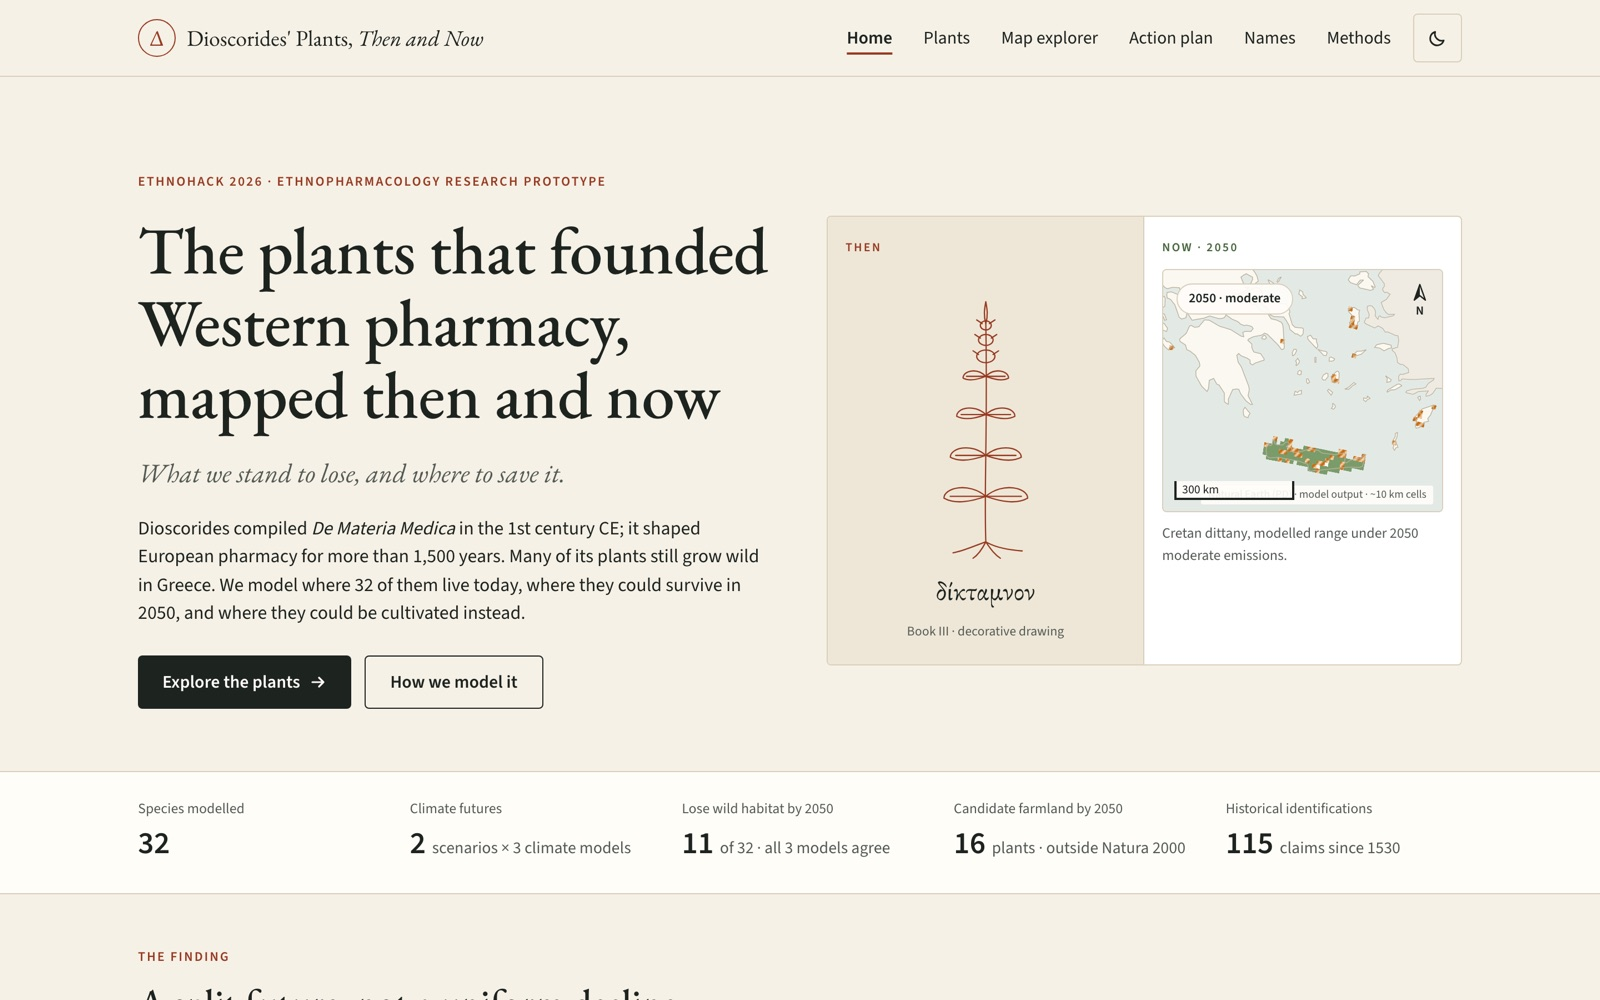
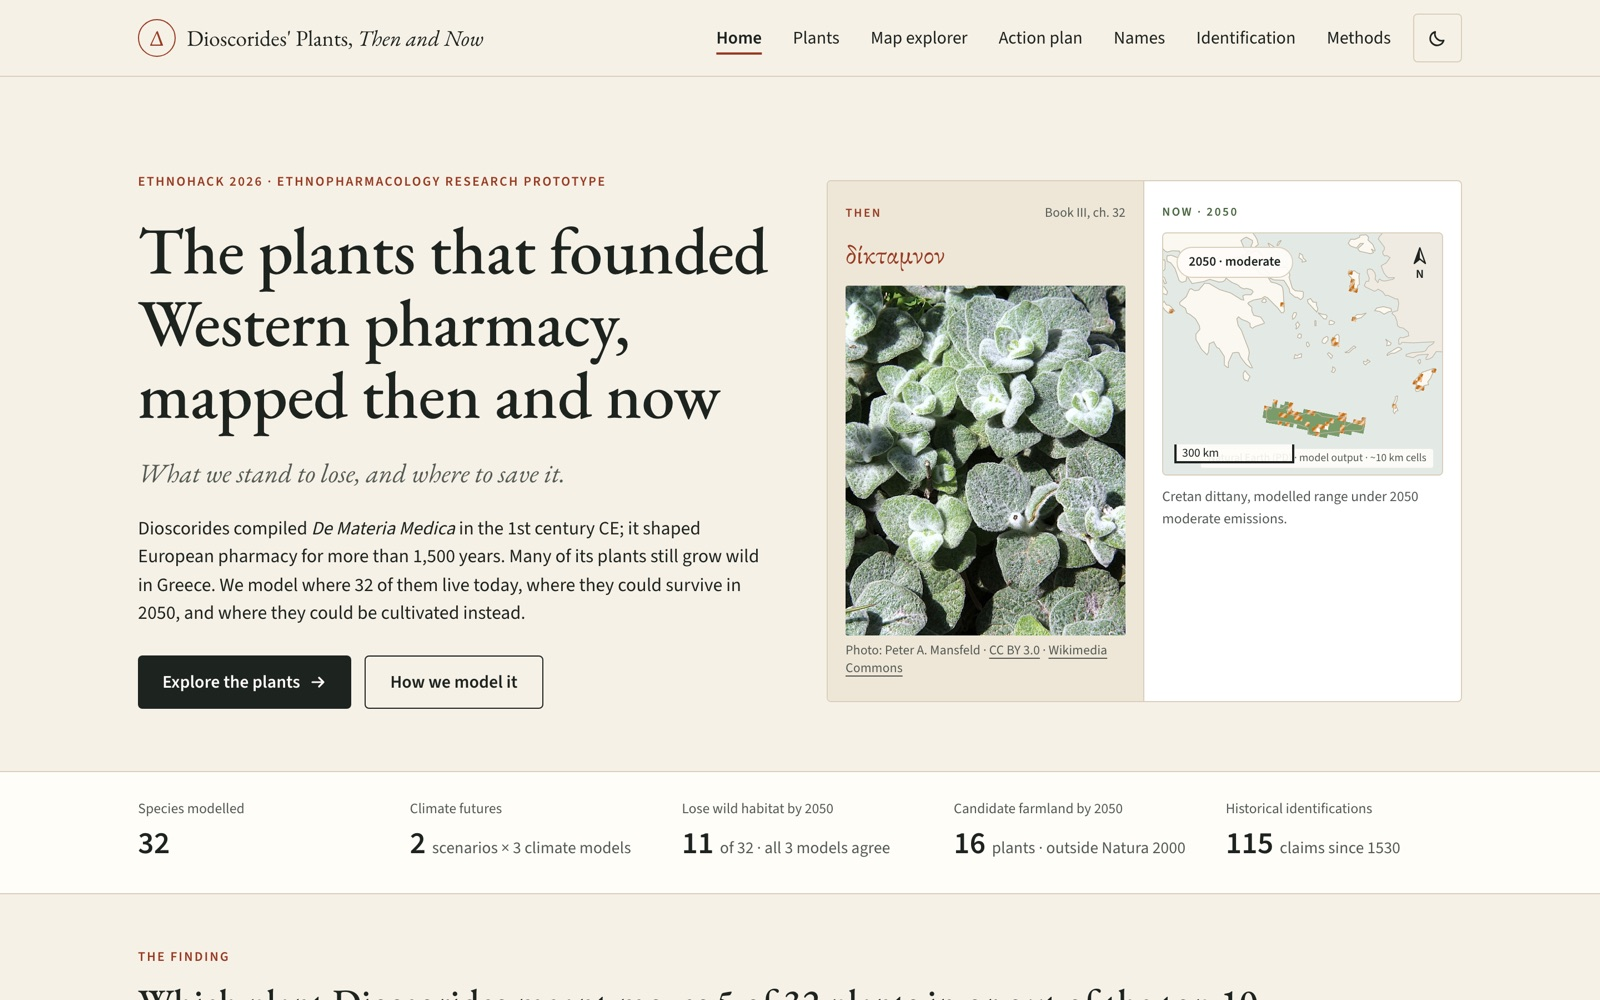
README: gallery of all 32 plants with real photos and credits; refresh screenshots with the new photos

diff --git a/README.md b/README.md
@@ -36,6 +36,59 @@ We model where 32 medicinal plants from Dioscorides' *De Materia Medica* (1st ce
 </tr>
 </table>
 
+## The 32 plants
+
+The plants Dioscorides described that still grow wild in Greece, in order of 2050 risk. Click any photo to open its page on the live site.
+
+<table>
+<tr><td align="center" width="25%"><a href="https://materia-medica-2050.vercel.app/plants/origanum-dictamnus/"><img src="docs/images/plants/origanum-dictamnus.jpg" width="180" alt="Photograph of Origanum dictamnus"></a><br><b>1. Cretan dittany</b><br><sub><i>Origanum dictamnus</i> · δίκταμνον</sub></td><td align="center" width="25%"><a href="https://materia-medica-2050.vercel.app/plants/hyssopus-officinalis/"><img src="docs/images/plants/hyssopus-officinalis.jpg" width="180" alt="Photograph of Hyssopus officinalis"></a><br><b>2. Hyssop</b><br><sub><i>Hyssopus officinalis</i> · ὕσσωπος · disputed ID</sub></td><td align="center" width="25%"><a href="https://materia-medica-2050.vercel.app/plants/althaea-officinalis/"><img src="docs/images/plants/althaea-officinalis.jpg" width="180" alt="Photograph of Althaea officinalis"></a><br><b>3. Marsh mallow</b><br><sub><i>Althaea officinalis</i> · ἀλθαία · probable ID</sub></td><td align="center" width="25%"><a href="https://materia-medica-2050.vercel.app/plants/sideritis-syriaca/"><img src="docs/images/plants/sideritis-syriaca.jpg" width="180" alt="Photograph of Sideritis syriaca"></a><br><b>4. Cretan mountain tea</b><br><sub><i>Sideritis syriaca</i> · σιδηρῖτις · disputed ID</sub></td></tr>
+<tr><td align="center" width="25%"><a href="https://materia-medica-2050.vercel.app/plants/paeonia-greece/"><img src="docs/images/plants/paeonia-greece.jpg" width="180" alt="Photograph of Paeonia mascula"></a><br><b>5. Wild peonies of Greece</b><br><sub><i>Paeonia spp.</i> · γλυκυσίδη · disputed ID</sub></td><td align="center" width="25%"><a href="https://materia-medica-2050.vercel.app/plants/glycyrrhiza-glabra/"><img src="docs/images/plants/glycyrrhiza-glabra.jpg" width="180" alt="Photograph of Glycyrrhiza glabra"></a><br><b>6. Liquorice</b><br><sub><i>Glycyrrhiza glabra</i> · γλυκύρριζα · probable ID</sub></td><td align="center" width="25%"><a href="https://materia-medica-2050.vercel.app/plants/sambucus-nigra/"><img src="docs/images/plants/sambucus-nigra.jpg" width="180" alt="Photograph of Sambucus nigra"></a><br><b>7. Elder</b><br><sub><i>Sambucus nigra</i> · ἀκτῆ · probable ID</sub></td><td align="center" width="25%"><a href="https://materia-medica-2050.vercel.app/plants/juniperus-deltoides/"><img src="docs/images/plants/juniperus-deltoides.jpg" width="180" alt="Photograph of Juniperus deltoides"></a><br><b>8. Prickly juniper (eastern)</b><br><sub><i>Juniperus deltoides</i> · ἄρκευθος · disputed ID</sub></td></tr>
+<tr><td align="center" width="25%"><a href="https://materia-medica-2050.vercel.app/plants/origanum-vulgare/"><img src="docs/images/plants/origanum-vulgare.jpg" width="180" alt="Photograph of Origanum vulgare"></a><br><b>9. Greek oregano</b><br><sub><i>Origanum vulgare</i> · ὀρίγανος Ἡρακλεωτική · probable ID</sub></td><td align="center" width="25%"><a href="https://materia-medica-2050.vercel.app/plants/hypericum-perforatum/"><img src="docs/images/plants/hypericum-perforatum.jpg" width="180" alt="Photograph of Hypericum perforatum"></a><br><b>10. St John's wort</b><br><sub><i>Hypericum perforatum</i> · ὑπερικόν · disputed ID</sub></td><td align="center" width="25%"><a href="https://materia-medica-2050.vercel.app/plants/urtica-dioica/"><img src="docs/images/plants/urtica-dioica.jpg" width="180" alt="Photograph of Urtica dioica"></a><br><b>11. Stinging nettle</b><br><sub><i>Urtica dioica</i> · ἀκαλήφη · probable ID</sub></td><td align="center" width="25%"><a href="https://materia-medica-2050.vercel.app/plants/plantago-lanceolata/"><img src="docs/images/plants/plantago-lanceolata.jpg" width="180" alt="Photograph of Plantago lanceolata"></a><br><b>12. Ribwort plantain</b><br><sub><i>Plantago lanceolata</i> · ἀρνόγλωσσον · disputed ID</sub></td></tr>
+<tr><td align="center" width="25%"><a href="https://materia-medica-2050.vercel.app/plants/teucrium-chamaedrys/"><img src="docs/images/plants/teucrium-chamaedrys.jpg" width="180" alt="Photograph of Teucrium chamaedrys"></a><br><b>13. Wall germander</b><br><sub><i>Teucrium chamaedrys</i> · χαμαίδρυς · disputed ID</sub></td><td align="center" width="25%"><a href="https://materia-medica-2050.vercel.app/plants/melissa-officinalis/"><img src="docs/images/plants/melissa-officinalis.jpg" width="180" alt="Photograph of Melissa officinalis"></a><br><b>14. Lemon balm</b><br><sub><i>Melissa officinalis</i> · μελισσόφυλλον · probable ID</sub></td><td align="center" width="25%"><a href="https://materia-medica-2050.vercel.app/plants/teucrium-capitatum/"><img src="docs/images/plants/teucrium-capitatum.jpg" width="180" alt="Photograph of Teucrium capitatum"></a><br><b>15. Felty germander</b><br><sub><i>Teucrium capitatum</i> · πόλιον</sub></td><td align="center" width="25%"><a href="https://materia-medica-2050.vercel.app/plants/matricaria-chamomilla/"><img src="docs/images/plants/matricaria-chamomilla.jpg" width="180" alt="Photograph of Matricaria chamomilla"></a><br><b>16. German chamomile</b><br><sub><i>Matricaria chamomilla</i> · ἀνθεμίς · disputed ID</sub></td></tr>
+<tr><td align="center" width="25%"><a href="https://materia-medica-2050.vercel.app/plants/marrubium-vulgare/"><img src="docs/images/plants/marrubium-vulgare.jpg" width="180" alt="Photograph of Marrubium vulgare"></a><br><b>17. White horehound</b><br><sub><i>Marrubium vulgare</i> · πράσιον · probable ID</sub></td><td align="center" width="25%"><a href="https://materia-medica-2050.vercel.app/plants/artemisia-absinthium/"><img src="docs/images/plants/artemisia-absinthium.jpg" width="180" alt="Photograph of Artemisia absinthium"></a><br><b>18. Wormwood</b><br><sub><i>Artemisia absinthium</i> · ἀψίνθιον · probable ID</sub></td><td align="center" width="25%"><a href="https://materia-medica-2050.vercel.app/plants/malva-sylvestris/"><img src="docs/images/plants/malva-sylvestris.jpg" width="180" alt="Photograph of Malva sylvestris"></a><br><b>19. Common mallow</b><br><sub><i>Malva sylvestris</i> · μολόχη · probable ID</sub></td><td align="center" width="25%"><a href="https://materia-medica-2050.vercel.app/plants/salvia-rosmarinus/"><img src="docs/images/plants/salvia-rosmarinus.jpg" width="180" alt="Photograph of Salvia rosmarinus"></a><br><b>20. Rosemary</b><br><sub><i>Salvia rosmarinus</i> · λιβανωτίς · probable ID</sub></td></tr>
+<tr><td align="center" width="25%"><a href="https://materia-medica-2050.vercel.app/plants/foeniculum-vulgare/"><img src="docs/images/plants/foeniculum-vulgare.jpg" width="180" alt="Photograph of Foeniculum vulgare"></a><br><b>21. Fennel</b><br><sub><i>Foeniculum vulgare</i> · μάραθον</sub></td><td align="center" width="25%"><a href="https://materia-medica-2050.vercel.app/plants/salvia-fruticosa/"><img src="docs/images/plants/salvia-fruticosa.jpg" width="180" alt="Photograph of Salvia fruticosa"></a><br><b>22. Greek sage</b><br><sub><i>Salvia fruticosa</i> · ἐλελίσφακον · disputed ID</sub></td><td align="center" width="25%"><a href="https://materia-medica-2050.vercel.app/plants/lavandula-stoechas/"><img src="docs/images/plants/lavandula-stoechas.jpg" width="180" alt="Photograph of Lavandula stoechas"></a><br><b>23. French / topped lavender</b><br><sub><i>Lavandula stoechas</i> · στοιχάς</sub></td><td align="center" width="25%"><a href="https://materia-medica-2050.vercel.app/plants/thymbra-capitata/"><img src="docs/images/plants/thymbra-capitata.jpg" width="180" alt="Photograph of Thymbra capitata"></a><br><b>24. Conehead thyme</b><br><sub><i>Thymbra capitata</i> · θύμος · probable ID</sub></td></tr>
+<tr><td align="center" width="25%"><a href="https://materia-medica-2050.vercel.app/plants/ecballium-elaterium/"><img src="docs/images/plants/ecballium-elaterium.jpg" width="180" alt="Photograph of Ecballium elaterium"></a><br><b>25. Squirting cucumber</b><br><sub><i>Ecballium elaterium</i> · σίκυς ἄγριος</sub></td><td align="center" width="25%"><a href="https://materia-medica-2050.vercel.app/plants/glaucium-flavum/"><img src="docs/images/plants/glaucium-flavum.jpg" width="180" alt="Photograph of Glaucium flavum"></a><br><b>26. Yellow horned poppy</b><br><sub><i>Glaucium flavum</i> · μήκων κερατῖτις</sub></td><td align="center" width="25%"><a href="https://materia-medica-2050.vercel.app/plants/centaurium-erythraea/"><img src="docs/images/plants/centaurium-erythraea.jpg" width="180" alt="Photograph of Centaurium erythraea"></a><br><b>27. Common centaury</b><br><sub><i>Centaurium erythraea</i> · κενταύρειον τὸ λεπτὸν ἢ μικρόν</sub></td><td align="center" width="25%"><a href="https://materia-medica-2050.vercel.app/plants/mentha-pulegium/"><img src="docs/images/plants/mentha-pulegium.jpg" width="180" alt="Photograph of Mentha pulegium"></a><br><b>28. Pennyroyal</b><br><sub><i>Mentha pulegium</i> · γλήχων</sub></td></tr>
+<tr><td align="center" width="25%"><a href="https://materia-medica-2050.vercel.app/plants/cyclamen-graecum/"><img src="docs/images/plants/cyclamen-graecum.jpg" width="180" alt="Photograph of Cyclamen graecum"></a><br><b>29. Greek cyclamen</b><br><sub><i>Cyclamen graecum</i> · κυκλάμινος · probable ID</sub></td><td align="center" width="25%"><a href="https://materia-medica-2050.vercel.app/plants/pistacia-lentiscus/"><img src="docs/images/plants/pistacia-lentiscus.jpg" width="180" alt="Photograph of Pistacia lentiscus"></a><br><b>30. Mastic tree, lentisk</b><br><sub><i>Pistacia lentiscus</i> · σχῖνος · probable ID</sub></td><td align="center" width="25%"><a href="https://materia-medica-2050.vercel.app/plants/capparis-spinosa/"><img src="docs/images/plants/capparis-spinosa.jpg" width="180" alt="Photograph of Capparis spinosa"></a><br><b>31. Caper</b><br><sub><i>Capparis spinosa</i> · κάππαρις</sub></td><td align="center" width="25%"><a href="https://materia-medica-2050.vercel.app/plants/mandragora-officinarum/"><img src="docs/images/plants/mandragora-officinarum.jpg" width="180" alt="Photograph of Mandragora officinarum"></a><br><b>32. Mandrake</b><br><sub><i>Mandragora officinarum</i> · μανδραγόρας</sub></td></tr>
+</table>
+
+<details><summary>Photo credits (Wikimedia Commons)</summary>
+
+- **Cretan dittany**: *Origanum dictamnus*. Photo: Peter A. Mansfeld, [CC BY 3.0](https://creativecommons.org/licenses/by/3.0), [source](https://commons.wikimedia.org/wiki/File:Origanum_dictamnus_pmPfl.jpg)
+- **Hyssop**: *Hyssopus officinalis*. Photo: Robert Flogaus-Faust, [CC BY 4.0](https://creativecommons.org/licenses/by/4.0), [source](https://commons.wikimedia.org/wiki/File:Hyssopus_officinalis_2_RF.jpg)
+- **Marsh mallow**: *Althaea officinalis*. Photo: Krzysztof Golik, [CC BY-SA 4.0](https://creativecommons.org/licenses/by-sa/4.0), [source](https://commons.wikimedia.org/wiki/File:Althaea_officinalis_in_Jardin_des_5_sens_(1).jpg)
+- **Cretan mountain tea**: *Sideritis syriaca*. Photo: Krzysztof Ziarnek, Kenraiz, [CC BY-SA 4.0](https://creativecommons.org/licenses/by-sa/4.0), [source](https://commons.wikimedia.org/wiki/File:Sideritis_syriaca_kz01.jpg)
+- **Wild peonies of Greece**: *Paeonia mascula* (one of the species pooled for this plant). Photo: Erdem Cırık, [CC BY-SA 4.0](https://creativecommons.org/licenses/by-sa/4.0), [source](https://commons.wikimedia.org/wiki/File:Paeonia_Mascula_(Ay%C4%B1_G%C3%BCl%C3%BC).jpg)
+- **Liquorice**: *Glycyrrhiza glabra*. Photo: N. Teerink, [CC BY-SA 4.0](https://creativecommons.org/licenses/by-sa/4.0), [source](https://commons.wikimedia.org/wiki/File:Glycyrrhiza_glabra_(Zoethout).jpg)
+- **Elder**: *Sambucus nigra*. Photo: Willow, [CC BY 2.5](https://creativecommons.org/licenses/by/2.5), [source](https://commons.wikimedia.org/wiki/File:Sambucus_nigra_004.jpg)
+- **Prickly juniper (eastern)**: *Juniperus deltoides* (one of the species pooled for this plant). Photo: Holger Krisp, [CC BY 3.0](https://creativecommons.org/licenses/by/3.0), [source](https://commons.wikimedia.org/wiki/File:Stech-Wacholder_Juniperus_deltoides.jpg)
+- **Greek oregano**: *Origanum vulgare*. Photo: Ivar Leidus, [CC BY-SA 3.0](https://creativecommons.org/licenses/by-sa/3.0), [source](https://commons.wikimedia.org/wiki/File:Origanum_vulgare_-_harilik_pune.jpg)
+- **St John's wort**: *Hypericum perforatum*. Photo: Didier Descouens, [CC BY-SA 4.0](https://creativecommons.org/licenses/by-sa/4.0), [source](https://commons.wikimedia.org/wiki/File:(MHNT)_Hypericum_perforatum_flower_and_buttons.jpg)
+- **Stinging nettle**: *Urtica dioica*. Photo: Evelyn Simak, [CC BY-SA 2.0](https://creativecommons.org/licenses/by-sa/2.0), [source](https://commons.wikimedia.org/wiki/File:Fen_nettle_(Urtica_dioica_ssp._galeopsifolia)_-_geograph.org.uk_-_5423125.jpg)
+- **Ribwort plantain**: *Plantago lanceolata*. Photo: sannse, [CC BY-SA 3.0](http://creativecommons.org/licenses/by-sa/3.0/), [source](https://commons.wikimedia.org/wiki/File:Ribwort_600.jpg)
+- **Wall germander**: *Teucrium chamaedrys*. Photo: Konrad Lackerbeck, [CC0](http://creativecommons.org/publicdomain/zero/1.0/deed.en), [source](https://commons.wikimedia.org/wiki/File:Gamander_Passau.JPG)
+- **Lemon balm**: *Melissa officinalis*. Photo: Amitchell125, [CC BY-SA 4.0](https://creativecommons.org/licenses/by-sa/4.0), [source](https://commons.wikimedia.org/wiki/File:Lemon_balm_plant.jpg)
+- **Felty germander**: *Teucrium capitatum* (one of the species pooled for this plant). Photo: Krzysztof Ziarnek, Kenraiz, [CC BY-SA 4.0](https://creativecommons.org/licenses/by-sa/4.0), [source](https://commons.wikimedia.org/wiki/File:Teucrium_capitatum_subsp._majoricum_kz01.jpg)
+- **German chamomile**: *Matricaria chamomilla*. Photo: Alvesgaspar, [CC BY-SA 3.0](https://creativecommons.org/licenses/by-sa/3.0), [source](https://commons.wikimedia.org/wiki/File:Matricaria_February_2008-1.jpg)
+- **White horehound**: *Marrubium vulgare*. Photo: Juan Carlos Fonseca Mata, [CC BY-SA 4.0](https://creativecommons.org/licenses/by-sa/4.0), [source](https://commons.wikimedia.org/wiki/File:Marrubium_vulgare_in_Mexico_I.jpg)
+- **Wormwood**: *Artemisia absinthium*. Photo: David Monniaux, [CC BY-SA 3.0](http://creativecommons.org/licenses/by-sa/3.0/), [source](https://commons.wikimedia.org/wiki/File:Artemisia_absinthium_P1210748.jpg)
+- **Common mallow**: *Malva sylvestris*. Photo: Alvesgaspar, [CC BY-SA 3.0](https://creativecommons.org/licenses/by-sa/3.0), [source](https://commons.wikimedia.org/wiki/File:Mallow_January_2008-1.jpg)
+- **Rosemary**: *Salvia rosmarinus*. Photo: Margalob, [CC BY-SA 4.0](https://creativecommons.org/licenses/by-sa/4.0), [source](https://commons.wikimedia.org/wiki/File:Rosemary_in_bloom.JPG)
+- **Fennel**: *Foeniculum vulgare*. Photo: Alvesgaspar, [CC BY-SA 3.0](https://creativecommons.org/licenses/by-sa/3.0), [source](https://commons.wikimedia.org/wiki/File:Foeniculum_July_2011-1a.jpg)
+- **Greek sage**: *Salvia fruticosa*. Photo: Robert Flogaus-Faust, [CC BY 4.0](https://creativecommons.org/licenses/by/4.0), [source](https://commons.wikimedia.org/wiki/File:Salvia_fruticosa_2_RF.jpg)
+- **French / topped lavender**: *Lavandula stoechas*. Photo: Forest & Kim Starr, [CC BY 3.0](https://creativecommons.org/licenses/by/3.0), [source](https://commons.wikimedia.org/wiki/File:Starr_080103-1282_Lavandula_stoechas.jpg)
+- **Conehead thyme**: *Thymbra capitata*. Photo: Lapplaender, [CC BY-SA 3.0 de](https://creativecommons.org/licenses/by-sa/3.0/de/deed.en), [source](https://commons.wikimedia.org/wiki/File:Thymus_capitatus_in_Crete.jpg)
+- **Squirting cucumber**: *Ecballium elaterium*. Photo: Katja Schulz from Washington, D. C., USA, [CC BY 2.0](https://creativecommons.org/licenses/by/2.0), [source](https://commons.wikimedia.org/wiki/File:Squirting_Cucumber_(15796509091).jpg)
+- **Yellow horned poppy**: *Glaucium flavum*. Photo: Salicyna, [CC BY-SA 4.0](https://creativecommons.org/licenses/by-sa/4.0), [source](https://commons.wikimedia.org/wiki/File:Glaucium_flavum_2015-06-16_442.JPG)
+- **Common centaury**: *Centaurium erythraea*. Photo: Picture taken by BerndH, [CC BY-SA 3.0](http://creativecommons.org/licenses/by-sa/3.0/), [source](https://commons.wikimedia.org/wiki/File:Centaurium_erythraea_220603.jpg)
+- **Pennyroyal**: *Mentha pulegium*. Photo: Raffi Kojian, [CC BY-SA 3.0](https://creativecommons.org/licenses/by-sa/3.0), [source](https://commons.wikimedia.org/wiki/File:Gardenology.org-IMG_2751_rbgs11jan.jpg)
+- **Greek cyclamen**: *Cyclamen graecum*. Photo: KPFC, [CC BY-SA 4.0](https://creativecommons.org/licenses/by-sa/4.0), [source](https://commons.wikimedia.org/wiki/File:Cyclamen_graecum_(KPFC)_01.jpg)
+- **Mastic tree, lentisk**: *Pistacia lentiscus*. Photo: Lumbar~commonswiki, [CC BY-SA 3.0](http://creativecommons.org/licenses/by-sa/3.0/), [source](https://commons.wikimedia.org/wiki/File:Pistacia_lentiscus.jpg)
+- **Caper**: *Capparis spinosa* (one of the species pooled for this plant). Photo: IssamBarhoumi, [CC BY-SA 4.0](https://creativecommons.org/licenses/by-sa/4.0), [source](https://commons.wikimedia.org/wiki/File:Capparis_spinosa_Ichkeul_National_Parc.jpg)
+- **Mandrake**: *Mandragora officinarum* (one of the species pooled for this plant). Photo: H. Zell, [CC BY-SA 3.0](https://creativecommons.org/licenses/by-sa/3.0), [source](https://commons.wikimedia.org/wiki/File:Mandragora_officinarum_002.JPG)
+
+</details>
+
+
 ## Results
 
 Top 10 of 32 by risk score (SSP2-4.5). Every interval is the spread across the three climate models; the last column is the plant's rank under each rival identification (only disputed plants have one).
